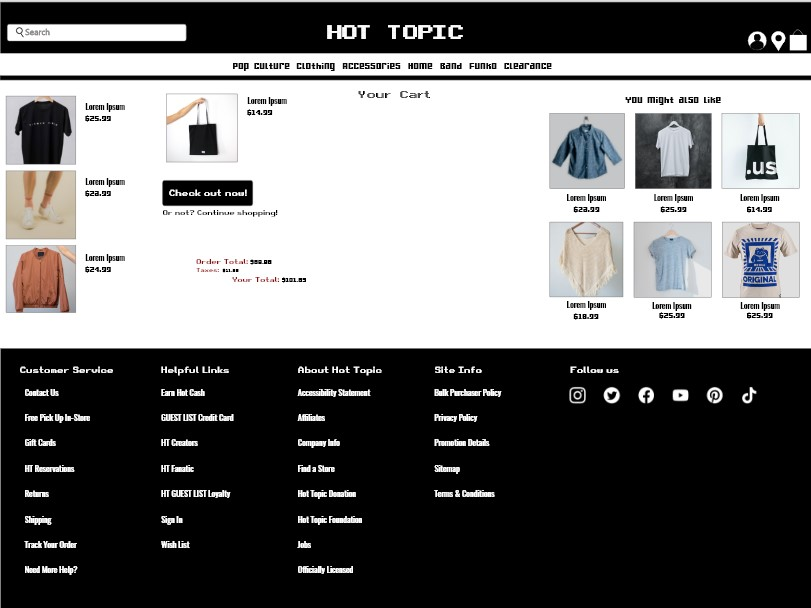
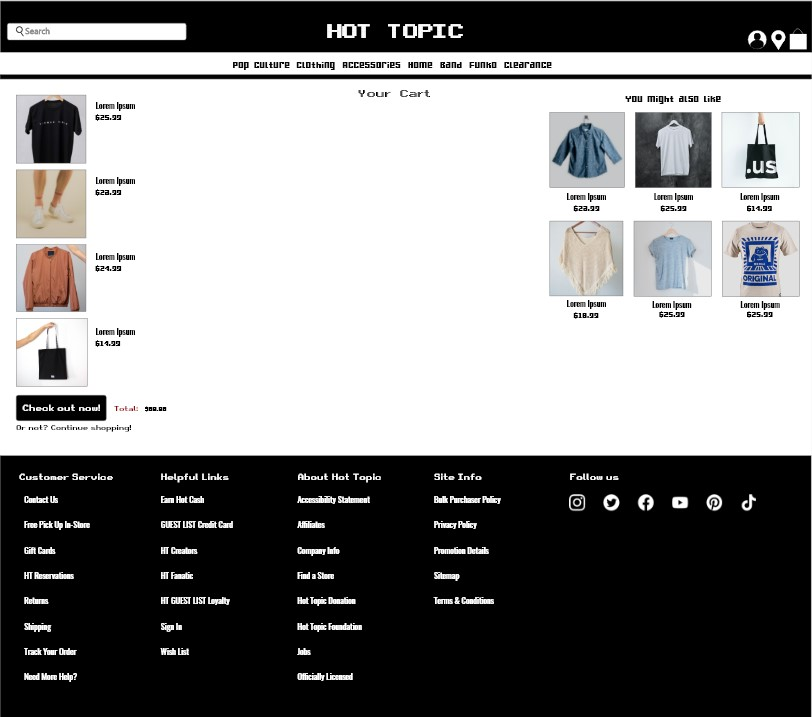
80% of cart css done

Changed region(s): [[0.0, 0.0, 1.0, 0.9688], [0.2466, 0.4062, 0.3699, 0.4688]]

diff --git a/cart.html b/cart.html
@@ -24,8 +24,8 @@
                 <section class="icons">
                     <img src="images/account.svg" alt="account icon" class="account">
                     <img src="images/location_1.svg" alt="location icon" class="location">
-                    <img src="images/shopping.svg" alt="shopping bag icon" class="shoppingbag">
-                </section>>
+                    <a href="cart.html"><img src="images/shopping.svg" alt="shopping bag icon" class="shoppingbag"></a>
+                </section>
             
 
                 <section class="nav">
@@ -46,6 +46,71 @@
     </section>
 
     <main>
+        <div class="h2">
+            <h2>Your Cart</h2>
+        </div>
+
+        <div class="h3">
+                    <h3>You might also like</h3>
+                </div>
+                
+        <div class="itemcart">
+            <img src="images/popculture/1.jpg" class="pic1cart">
+            <p class="item1">Lorem Ipsum</p>
+            <p class="price1">$31.99</p>
+            <img src="images/popculture/2.jpg" class="pic2cart">
+            <p class="item2">Lorem Ipsum</p>
+            <p class="price2">$31.99</p>
+            <img src="images/popculture/3.jpg" class="pic3cart">
+            <p class="item3">Lorem Ipsum</p>
+            <p class="price3">$31.99</p>
+            <img src="images/popculture/4.jpg" class="pic4cart">
+            <p class="item4">Lorem Ipsum</p>
+            <p class="price4">$31.99</p>
+        </div>
+
+        
+
+       <div class="youmightalsolike">
+            <div class="mightlikepics">
+                <img src="images/popculture/5.jpg" class="pic5">
+                <img src="images/popculture/6.jpg" class="pic6">
+                <img src="images/popculture/7.jpg" class="pic7">
+
+            </div>
+
+            <div class="mightlikenames">
+                <p class="name5#2">Lorem Ipsum</p>
+                <p class="name6#2">Lorem Ipsum</p>
+                <p class="name7#2">Lorem Ipsum</p>
+
+            </div>
+
+            <div class="mightlikeprice">
+                <p class="price5#2">$31.99</p>
+                <p class="price6#2">$31.99</p>
+                <p class="price7#2">$31.99</p>
+            </div>
+
+
+            <div class="mightlikepics2">
+                <img src="images/popculture/8.jpg" class="pic8">
+                <img src="images/popculture/9.jpg" class="pic9">
+                <img src="images/popculture/10.jpg" class="pic10">
+            </div>
+
+            <div class="mightlikenames2">
+                <p class="name8#2">Lorem Ipsum</p>
+                <p class="name9#2">Lorem Ipsum</p>
+                <p class="name10#2">Lorem Ipsum</p>
+            </div>
+
+            <div class="mightlikeprice2">
+                <p class="price8#2">$31.99</p>
+                <p class="price9#2">$31.99</p>
+                <p class="price10#2">$31.99</p>
+            </div>
+        </div>
         
     </main>
 

diff --git a/css/main.css b/css/main.css
@@ -139,7 +139,7 @@ nav ul li a{
   font-family: Gamer;
 }
 
-/*---------- CSS FOR HTML 1 (INDEX/HOMEPAGE) ONLY---------- */
+/*---------- CSS FOR HTML 1 (INDEX/HOMEPAGE) ONLY ---------- */
 
 .greenfunko{
   display: grid;
@@ -197,14 +197,7 @@ transform:translateX(-5%);
 
 /* ---------- END OF CSS FOR HTML 1 ONLY ---------- */
 
-/*---------- CSS FOR HTML 2 (POPCULTURE) ONLY---------- */
-
-.navpc{ 
-  background-color: white;
-  height: 52px;
-  transform: translateY(-30%);
-}
-
+/*---------- CSS FOR HTML 2 (POPCULTURE) ONLY ---------- */
 
 h2{
  font-family: Arcade;
@@ -277,9 +270,93 @@ h2{
   transform: translateX(-3%);
 }
 
+/*---------- END OF CSS FOR HTML 2 (POPCULTURE) ONLY ---------- */
+
+/*---------- CSS FOR HTML 3 (CART) ONLY ---------- */
+
+h2{
+  font-family: Arcade;
+  font-size: 40px;
+  text-align: center;
+  padding-top: 30px;
+ }
+
+.itemcart img{
+  width: 178px; 
+  padding-bottom: 20px;
+  padding-left: 20px;
+} 
+.itemcart{
+  display: grid;
+  grid-template-columns: repeat(3, 1fr);
+}
+
+.item1, .item2, .item3, .item4{
+  font-family: Oswald;
+  font-size: 20px;
+  transform: translateX(-55%) translateY(10%)
+}
+
+.price1, .price2, .price3, .price4{
+  font-family: Gamer;
+  font-size: 30px; 
+  transform: translateX(-155%) translateY(20%)
+}
+
+h3{
+  font-family: Gamer;
+  font-size: 35px;
+ text-align: right;
+ transform: translateX(-12.5%) translateY(40%);
+}
+
+.mightlikepics, .mightlikepics2{
+  display: grid;
+  grid-template-columns: repeat(3, 178px);
+  column-gap: 15px;
+  justify-content: end;
+  padding-right: 20px;
+  transform: translateY(-410%);
+}
+
+.mightlikepics img{
+  width: 178px; 
+}
+.mightlikepics2 img{
+  width: 178px; 
+  transform: translateY(20%);
+  }
+
+.mightlikenames, .mightlikenames2{
+  font-family: Oswald;
+  font-size: 20px;
+  display: grid;
+  grid-template-columns: repeat(3, 178px);
+  justify-content: end;
+  transform: translateY(-4800%);
+}
+.mightlikenames2{
+  transform: translateY(-4500%);
+}
+
+.mightlikeprice, .mightlikeprice2{
+  font-family: Gamer;
+  font-size: 30px; 
+  display: grid;
+  grid-template-columns: repeat(3, 178px);
+  justify-content: end;
+  transform: translateY(-3000%);
+}
+.mightlikeprice{
+  transform: translateY(-3200%);
+}
 
 
-/*---------- END OF CSS FOR HTML 2 (POPCULTURE) ONLY---------- */
+  
+
+
+
+/*---------- END OF CSS FOR HTML 3 (CART) ONLY ---------- */
 
 
 /* ---footer--- css */

diff --git a/popculture.html b/popculture.html
@@ -24,11 +24,11 @@
                 <section class="icons">
                     <img src="images/account.svg" alt="account icon" class="account">
                     <img src="images/location_1.svg" alt="location icon" class="location">
-                    <img src="images/shopping.svg" alt="shopping bag icon" class="shoppingbag">
-                </section>>
+                    <a href="cart.html"><img src="images/shopping.svg" alt="shopping bag icon" class="shoppingbag"></a>
+                </section>
             
 
-                <section class="navpc">
+                <section class="nav">
                     <nav> <!--NAV BAR-->
                         <ul>
                             <li><a href="popculture.html">POP CULTURE</a></li>
